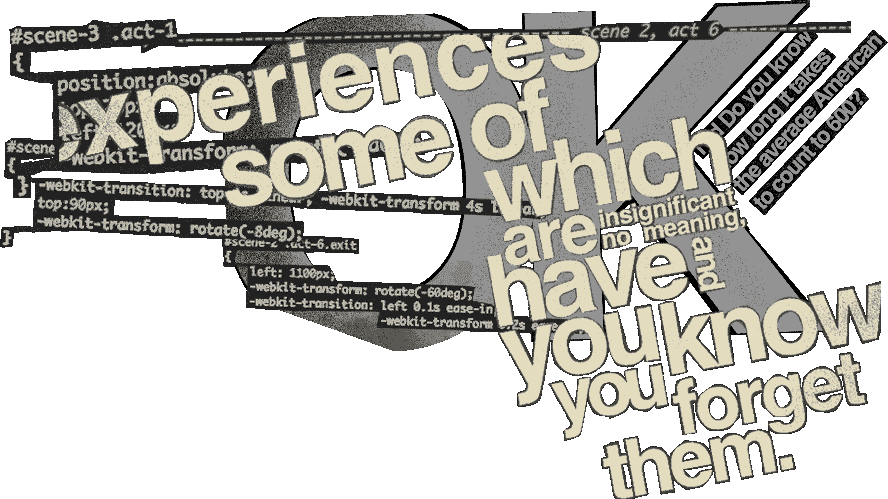
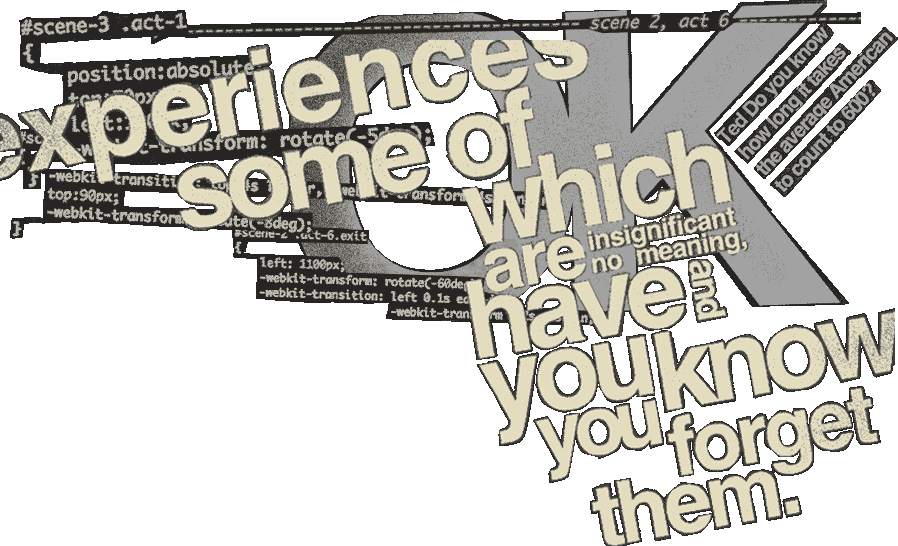
Work on responsive styles for projects and info

diff --git a/c/css/dist/core.css b/c/css/dist/core.css
@@ -1,1 +1,1 @@
-html,body,div,span,applet,object,iframe,h1,h2,h3,h4,h5,h6,p,blockquote,pre,a,abbr,acronym,address,big,cite,code,del,dfn,em,img,ins,kbd,q,s,samp,small,strike,strong,sub,sup,tt,var,b,u,i,center,dl,dt,dd,ol,ul,li,fieldset,form,label,legend,table,caption,tbody,tfoot,thead,tr,th,td,article,aside,canvas,details,embed,figure,figcaption,footer,header,hgroup,menu,nav,output,ruby,section,summary,time,mark,audio,video{margin:0;padding:0;border:0;font-size:100%;font:inherit;vertical-align:baseline}article,aside,details,figcaption,figure,footer,header,hgroup,menu,nav,section{display:block}body{line-height:1}ol,ul{list-style:none}blockquote,q{quotes:none}blockquote:before,blockquote:after,q:before,q:after{content:'';content:none}table{border-collapse:collapse;border-spacing:0}@font-face{font-family:"BebasNeueRegular";src:url("/fonts//BebasNeue-webfont.eot");src:url("/fonts//BebasNeue-webfont.eot?iefix") format("eot"), url("/fonts//BebasNeue-webfont.woff") format("woff"), url("/fonts//BebasNeue-webfont.ttf") format("truetype"), url("/fonts//BebasNeue-webfont.svg#webfontfvFLBU0N") format("svg")}::-moz-selection{background-color:#fce704;color:#201f1e;text-shadow:none}::selection{background-color:#fce704;color:#201f1e;-webkit-text-fill-color:#201f1e;text-shadow:none}html{background:#fefefe url(/images/html_bg_tile.gif) repeat 95%;padding:5px}body{background-color:#2b2a29;background-image:url(/images/body_bg_tile_03.png), url(/images/body_bg_tile_02.png), url(/images/body_bg_tile_01.png);background-repeat:repeat;background-position:95% -50%, 120%, 80%;border-width:6px;-moz-border-image:url(/images/body_border.png) 10 10 10 10 repeat repeat;-webkit-border-image:url(/images/body_border.png) 10 10 10 10 repeat repeat;border-image:url(/images/body_border.png) 10 10 10 10 repeat repeat;color:#f4efd3}header[role="banner"]{background-color:transparent;background-image:url(/images/banner_btm_border.png), url(/images/body_bg_tile_02.png), url(/images/banner_bg_tile.png);background-repeat:repeat-x, repeat, repeat;background-position:90% 105%, 70%, 90%;-moz-border-radius-topleft:6px;-webkit-border-top-left-radius:6px;-o-border-top-left-radius:6px;-ms-border-top-left-radius:6px;-khtml-border-top-left-radius:6px;border-top-left-radius:6px;-moz-border-radius-topright:6px;-webkit-border-top-right-radius:6px;-o-border-top-right-radius:6px;-ms-border-top-right-radius:6px;-khtml-border-top-right-radius:6px;border-top-right-radius:6px;color:#f0e9d7;font-family:helvetica, arial, sans-serif}header[role="banner"] > a{display:block;margin:0 auto;max-width:900px;opacity:0.9;padding:10px;text-align:center}header[role="banner"] > a:hover{opacity:1}header[role="banner"] hgroup{background:transparent url(/images/banner.png) no-repeat center top;-moz-background-size:100%;-webkit-background-size:100%;-o-background-size:100%;background-size:100%;padding-top:8.9%}header[role="banner"] h1,header[role="banner"] h2{font-size:1em;text-indent:-3000em}@media all and (max-width: 500px){header[role="banner"] > a{padding-top:4px}header[role="banner"] hgroup{background-image:url(/images/banner_narrow.png);padding-top:18%}}nav{margin:0 auto;max-width:900px;padding-right:12px}nav ul{background:#efe62f url(/images/header_text_bg_01.jpg) repeat left bottom;border-bottom:1px solid rgba(29, 29, 29, 0.5);display:inline-block;float:right;margin-bottom:-20px;padding:1px 8px 1px 8px;position:relative;top:-21px;-moz-transform:rotate(-0.4deg);-webkit-transform:rotate(-0.4deg);-o-transform:rotate(-0.4deg);-ms-transform:rotate(-0.4deg);transform:rotate(-0.4deg)}nav li{display:inline-block;margin-right:16px}nav li:last-child{margin-right:0}nav a{border-bottom:4px solid transparent;color:#2e2e2e;display:inline-block;font:2.3em/1em "atrament-web-1", "atrament-web-2", "BebasNeueRegular", helvetica, sans-serif;text-decoration:none;text-transform:uppercase}nav a:hover{border-bottom-color:#d45415;color:#000}#page-projects nav a[href*='projects'],#page-articles nav a[href*='articles'],#page-info nav a[href*='info']{border-bottom-color:#d45415;color:#000;cursor:default}#content{clear:both;font:1.3em/1em "chaparral-pro-1", "chaparral-pro-2", "Chaparral Pro", georgia, serif;-webkit-font-smoothing:antialiased}#content a{color:#fdec33;text-decoration:none}#content a:hover{background-color:rgba(255, 3, 104, 0.1);text-decoration:none;text-shadow:none}#content a.disabled{color:#757575;cursor:default}#content a.disabled:hover{background-color:transparent}h1{color:#fdec33;font:3.2em/1em "atrament-web-1", "atrament-web-2", "BebasNeueRegular", helvetica, sans-serif;text-transform:uppercase}footer[role="authorinfo"]{background:rgba(14, 14, 13, 0.1) url(/images/footer_top_border.png) repeat-x 90% top;-moz-border-radius-bottomleft:6px;-webkit-border-bottom-left-radius:6px;-o-border-bottom-left-radius:6px;-ms-border-bottom-left-radius:6px;-khtml-border-bottom-left-radius:6px;border-bottom-left-radius:6px;-moz-border-radius-bottomright:6px;-webkit-border-bottom-right-radius:6px;-o-border-bottom-right-radius:6px;-ms-border-bottom-right-radius:6px;-khtml-border-bottom-right-radius:6px;border-bottom-right-radius:6px;padding:15px 0;text-align:center}footer[role="authorinfo"] ul{margin:0 auto;max-width:900px}footer[role="authorinfo"] li{background:transparent url(/images/footer_item_divider.png) no-repeat right center;display:inline-block;padding-right:65px}footer[role="authorinfo"] li:last-child{background-image:none;padding-right:0}footer[role="authorinfo"] a{background:-moz-radial-gradient(center 45deg, circle closest-side, rgba(90, 169, 219, 0.2) 20px, transparent 21px);background:-webkit-gradient(radial, center center, 20, center center, 21, from(rgba(90, 169, 219, 0.2)), to(transparent));color:#f0f1f2;display:inline-block;font:2.1em/1em "atrament-web-1", "atrament-web-2", "BebasNeueRegular", helvetica, sans-serif;opacity:0.85;padding:6px 0px 9px 0px;text-align:center;text-decoration:none;text-transform:uppercase;text-shadow:rgba(0, 0, 0, 0.2) 0px 1px 1px}footer[role="authorinfo"] a:hover{opacity:1}footer[role="authorinfo"] a[href*='twitter']{background:-moz-radial-gradient(center 45deg, circle closest-side, rgba(90, 169, 219, 0.3) 20px, transparent 21px);background:-webkit-gradient(radial, center center, 20, center center, 21, from(rgba(90, 169, 219, 0.3)), to(transparent))}footer[role="authorinfo"] a[href*='dribbble']{background:-moz-radial-gradient(center 45deg, circle closest-side, rgba(246, 77, 192, 0.3) 20px, transparent 21px);background:-webkit-gradient(radial, center center, 20, center center, 21, from(rgba(246, 77, 192, 0.3)), to(transparent))}footer[role="authorinfo"] a[href*='rss']{background:-moz-radial-gradient(center 45deg, circle closest-side, rgba(255, 130, 39, 0.3) 20px, transparent 21px);background:-webkit-gradient(radial, center center, 20, center center, 21, from(rgba(255, 130, 39, 0.3)), to(transparent))}footer[role="authorinfo"] a[href*='readability']{background:-moz-radial-gradient(center 45deg, circle closest-side, rgba(184, 28, 40, 0.3) 20px, transparent 21px);background:-webkit-gradient(radial, center center, 20, center center, 21, from(rgba(184, 28, 40, 0.3)), to(transparent))}@media all and (max-width: 615px){footer[role="authorinfo"] a{font-size:1.7em}footer[role="authorinfo"] li{padding-right:40px}}#articles{clear:both;margin:0 auto;max-width:900px;overflow:hidden;padding:0 10px 15px 10px}#articles li{background-color:transparent;background-repeat:no-repeat;background-position:4% center;-moz-background-size:18%;-webkit-background-size:18%;-o-background-size:18%;background-size:18%;margin:10px auto}#articles a{display:block;padding:36px 0 40px 26%;-moz-transition-property:padding;-webkit-transition-property:padding;-o-transition-property:padding;transition-property:padding;-moz-transition-duration:0.2s;-webkit-transition-duration:0.2s;-o-transition-duration:0.2s;transition-duration:0.2s}#articles a:hover{background-color:transparent}#articles a:hover h2{color:#fdec33}#articles a:hover b{border-bottom-color:#f1f1f1}#articles time{background:transparent url(/images/horizontal_divider.png) repeat-x 20% center;color:#2d2d2d;display:block;font-size:0.75em;font-style:italic;font-weight:600}#articles time span{background-color:#eedf42;padding:0 4px}#articles h2{color:#f1f1f1;font:2.5em/1em "atrament-web-1", "atrament-web-2", "BebasNeueRegular", helvetica, sans-serif;margin-top:4px;text-transform:uppercase}#articles p{color:#f1f1f1;clear:right;font-size:0.95em;font-style:italic;line-height:1.3em}#articles b{border-bottom:1px solid rgba(253, 236, 51, 0.2);display:inline-block;font-size:0.75em;font-style:italic;margin-top:8px;float:right}#articles .i-less-than-three-ie6{background-image:url(/images/entryAssets/i-less-than-three-ie6/listingGraphic.png)}#articles .i-less-than-three-ie6 a:hover h2,#articles .i-less-than-three-ie6 a:hover b{color:#528eb7}#articles .you-did-what-with-what a:hover h2,#articles .you-did-what-with-what a:hover b{color:#b01a45}@media all and (max-width: 615px){#articles h2{font-size:1.8em}#articles li,#articles .i-less-than-three-ie6{background-image:none;width:95%}#articles a{padding:18px 0 24px 0}}#article{clear:both;margin:0 auto;max-width:900px;overflow:hidden;padding:0 10px 15px 10px}.hentry footer{background:transparent url(/images/yellow_border.png) no-repeat 110% top;clear:both;float:right;font-size:0.8em;padding-top:14px;width:70%}.hentry footer strong{background:transparent url(/images/article_thanks.png) no-repeat left top;display:inline-block;height:56px;position:relative;text-indent:-300em;top:-18px;left:-15px;width:239px}.hentry footer a{float:right;margin-right:14px}.entry-title{clear:both;font-size:3.8em;margin-bottom:20px;padding:14px 0 10px 30%}.entry-content{float:right;width:70%}.entry-content p{font-size:1.08em;line-height:1.25em;padding-bottom:1.4em;text-shadow:#080808 0px 0px 2px}.entry-content p:last-child{padding-bottom:0.8em}.entry-content p img{width:100%}.entry-content p strong{color:#fff;font-weight:700}.entry-content p.intro{color:#f1f1f1;font-size:1.22em;font-style:italic;padding-bottom:1.6em}.entry-meta{float:left;font-size:0.75em;margin-top:10px;width:30%}.entry-meta i{color:#9e9b8b;font-style:italic;font-weight:400;display:inline-block;width:75px}.entry-meta li{padding-bottom:3px;font-weight:600}.entry-meta #rdbWrapper{background:transparent url(/images/horizontal_divider.png) repeat-x left top;margin-top:4px;min-width:160px;padding-top:15px;width:65%}@media all and (max-width: 690px){.entry-meta{background-image:url(/images/horizontal_divider.png), url(/images/horizontal_divider.png);background-repeat:repeat-x;background-position:left top, left bottom;float:none;margin-bottom:20px;overflow:hidden;padding:15px 0 8px 0;width:95%}.entry-meta li{padding:0 0 0 15px}.entry-meta #rdbWrapper{background:none;margin-top:6px;min-width:auto;padding-top:0;width:auto}.entry-content{float:none;margin:0 auto;width:95%}.hentry footer{background:transparent url(/images/yellow_border.png) no-repeat 110% top;float:none;margin:0 auto;width:95%}}@media all and (max-width: 480px){.hentry footer strong{-moz-background-size:100%;-webkit-background-size:100%;-o-background-size:100%;background-size:100%;top:-8px;width:200px}}#article #i-less-than-three-ie6{background:transparent url(/images/entryAssets/i-less-than-three-ie6/ie6Logo.png) no-repeat 5% top;-moz-background-size:55%;-webkit-background-size:55%;-o-background-size:55%;background-size:55%;overflow:hidden}#article #i-less-than-three-ie6 .entry-title{color:#0490da;font:5em/1em "atrament-web-1", "atrament-web-2", "BebasNeueRegular", helvetica, sans-serif;font-weight:600;letter-spacing:0.05em;padding:40px 0 30px 0;text-align:center;text-shadow:#054f76 1px 1px 0px, #043f5e 2px 2px 0px, #03354f 3px 3px 0px, #03324a 4px 4px 0px, #032e45 5px 5px 0px}#article #i-less-than-three-ie6 .entry-title::-moz-selection{background-color:#d20d24;color:#fff;text-shadow:none}#article #i-less-than-three-ie6 .entry-title::selection{background-color:#d20d24;color:#fff;text-shadow:none;-webkit-text-fill-color:#fff}#article #i-less-than-three-ie6 .entry-title span{color:#f40b27;text-shadow:#860000 1px 1px 0px, #6d0000 2px 2px 0px, #5d0000 3px 3px 0px, #580000 4px 4px 0px, #530000 5px 5px 0px}#article #i-less-than-three-ie6 .entry-title span::-moz-selection{background-color:#d20d24;color:#fff;text-shadow:none}#article #i-less-than-three-ie6 .entry-title span::selection{background-color:#d20d24;color:#fff;text-shadow:none;-webkit-text-fill-color:#fff}#article #i-less-than-three-ie6 .dropCap{color:#0490da;display:inline-block;font-size:4.2em;font-style:normal;line-height:0.75em;text-align:left;text-shadow:#054f76 1px 1px 0px, #043f5e 2px 2px 0px, #03354f 3px 3px 0px, #03324a 4px 4px 0px, #032e45 5px 5px 0px;vertical-align:top;float:left;width:48px;padding-top:10px}#projects{margin:0 auto;max-width:900px;overflow:hidden;padding:40px 0;width:95%}#projects li{margin-bottom:30px;overflow:hidden}#projects h1{background:transparent url(/images/fuzzy_grain.png) repeat 90%;color:#000;display:inline-block;font-size:4em}#projects p{line-height:1.3;width:51%}#projects footer{background:transparent url(/images/horizontal_divider.png) repeat-x left top;line-height:1.3;margin-top:12px;padding-top:12px;text-align:right;width:50%}#projects footer a:first-child{font-size:1.12em;font-weight:600}#projects footer a:last-child{color:#8b8a88;font-size:0.9em;font-style:italic}#projects footer a:last-child mark{background-color:transparent;color:#fffde3}.alternate-layout p,#fullcourtshots p,.alternate-layout footer,#fullcourtshots footer{clear:right;float:right}#fullcourtshots{background:transparent url(/images/project_fcs_bg_full.png) no-repeat 40% 18%;-moz-background-size:94%;-webkit-background-size:94%;-o-background-size:94%;background-size:94%;padding:125px 0 80px 0}#fullcourtshots h1{background-color:#ea8111;clear:both;float:right;font-size:5.8em;line-height:0.8;margin-bottom:18px}#themanfromhollywood{background:transparent url(/images/project_mfh_bg_full.png) no-repeat center 5%;-moz-background-size:96%;-webkit-background-size:96%;-o-background-size:96%;background-size:96%;padding:125px 0 0px 0}#themanfromhollywood h1{background-image:none;clear:both;font-size:5.8em;line-height:0.85;margin-bottom:14px}#themanfromhollywood h1 span{background:#a8194b url(/images/fuzzy_grain.png) repeat 90%;display:inline-block}#themanfromhollywood h1 span:first-child{font-size:0.85em}#info{background:transparent url(/images/tylergaw_portrait.png) no-repeat 34% top;clear:both;margin:26px auto 0 auto;max-width:900px;overflow:hidden;padding:0 10px 15px 10px;-moz-transition-property:background-position;-webkit-transition-property:background-position;-o-transition-property:background-position;transition-property:background-position;-moz-transition-duration:0.2s;-webkit-transition-duration:0.2s;-o-transition-duration:0.2s;transition-duration:0.2s}#info h1{background-color:#ff0368;clear:both;color:#1d1d1d;display:inline-block;float:left;line-height:0.78em;margin-bottom:14px;overflow:hidden}#info .column-one{clear:left;float:left;width:35%}#info .column-two{clear:right;float:right;width:46%}#info .column-two p{clear:both;float:right;width:75%}#info .column-two h3{background-color:#f2e517;clear:both;color:#2b2a29;font-size:1.1em;font-weight:600;padding:6px 4px 7px 4px;text-align:right}#info .column-two h3 a{color:#e82573;text-decoration:none}#info .column-two h3 a:hover{color:black;background-color:transparent}#info p{line-height:1.3em;padding-bottom:16px;text-shadow:#080808 0px 0px 2px}@media all and (max-width: 810px){#info{background-position:35% 6px;-moz-background-size:78%;-webkit-background-size:78%;-o-background-size:78%;background-size:78%}}@media all and (max-width: 615px){#info{background-position:200% 20px}#info h1{font-size:2.5em}#info .column-one p{width:70%}#info .column-one,#info .column-two,#info .column-two p{clear:both;float:none;width:100%}#info .column-two h3{text-align:center}}@media all and (max-width: 480px){#info h1{font-size:2.1em;margin-bottom:8px}}
+html,body,div,span,applet,object,iframe,h1,h2,h3,h4,h5,h6,p,blockquote,pre,a,abbr,acronym,address,big,cite,code,del,dfn,em,img,ins,kbd,q,s,samp,small,strike,strong,sub,sup,tt,var,b,u,i,center,dl,dt,dd,ol,ul,li,fieldset,form,label,legend,table,caption,tbody,tfoot,thead,tr,th,td,article,aside,canvas,details,embed,figure,figcaption,footer,header,hgroup,menu,nav,output,ruby,section,summary,time,mark,audio,video{margin:0;padding:0;border:0;font-size:100%;font:inherit;vertical-align:baseline}article,aside,details,figcaption,figure,footer,header,hgroup,menu,nav,section{display:block}body{line-height:1}ol,ul{list-style:none}blockquote,q{quotes:none}blockquote:before,blockquote:after,q:before,q:after{content:'';content:none}table{border-collapse:collapse;border-spacing:0}@font-face{font-family:"BebasNeueRegular";src:url("/fonts//BebasNeue-webfont.eot");src:url("/fonts//BebasNeue-webfont.eot?iefix") format("eot"), url("/fonts//BebasNeue-webfont.woff") format("woff"), url("/fonts//BebasNeue-webfont.ttf") format("truetype"), url("/fonts//BebasNeue-webfont.svg#webfontfvFLBU0N") format("svg")}::-moz-selection{background-color:#fce704;color:#201f1e;text-shadow:none}::selection{background-color:#fce704;color:#201f1e;-webkit-text-fill-color:#201f1e;text-shadow:none}html{background:#fefefe url(/images/html_bg_tile.gif) repeat 95%;padding:5px}body{background-color:#2b2a29;background-image:url(/images/body_bg_tile_03.png), url(/images/body_bg_tile_02.png), url(/images/body_bg_tile_01.png);background-repeat:repeat;background-position:95% -50%, 120%, 80%;border-width:6px;-moz-border-image:url(/images/body_border.png) 10 10 10 10 repeat repeat;-webkit-border-image:url(/images/body_border.png) 10 10 10 10 repeat repeat;border-image:url(/images/body_border.png) 10 10 10 10 repeat repeat;color:#f4efd3}header[role="banner"]{background-color:transparent;background-image:url(/images/banner_btm_border.png), url(/images/body_bg_tile_02.png), url(/images/banner_bg_tile.png);background-repeat:repeat-x, repeat, repeat;background-position:90% 105%, 70%, 90%;-moz-border-radius-topleft:6px;-webkit-border-top-left-radius:6px;-o-border-top-left-radius:6px;-ms-border-top-left-radius:6px;-khtml-border-top-left-radius:6px;border-top-left-radius:6px;-moz-border-radius-topright:6px;-webkit-border-top-right-radius:6px;-o-border-top-right-radius:6px;-ms-border-top-right-radius:6px;-khtml-border-top-right-radius:6px;border-top-right-radius:6px;color:#f0e9d7;font-family:helvetica, arial, sans-serif}header[role="banner"] > a{display:block;margin:0 auto;max-width:900px;opacity:0.9;padding:10px;text-align:center}header[role="banner"] > a:hover{opacity:1}header[role="banner"] hgroup{background:transparent url(/images/banner.png) no-repeat center top;-moz-background-size:100%;-webkit-background-size:100%;-o-background-size:100%;background-size:100%;padding-top:8.9%}header[role="banner"] h1,header[role="banner"] h2{font-size:1em;text-indent:-3000em}@media all and (max-width: 500px){header[role="banner"] > a{padding-top:4px}header[role="banner"] hgroup{background-image:url(/images/banner_narrow.png);padding-top:18%}}nav{margin:0 auto;max-width:900px;padding-right:12px}nav ul{background:#efe62f url(/images/header_text_bg_01.jpg) repeat left bottom;border-bottom:1px solid rgba(29, 29, 29, 0.5);display:inline-block;float:right;margin-bottom:-20px;padding:1px 8px 1px 8px;position:relative;top:-21px;-moz-transform:rotate(-0.4deg);-webkit-transform:rotate(-0.4deg);-o-transform:rotate(-0.4deg);-ms-transform:rotate(-0.4deg);transform:rotate(-0.4deg)}nav li{display:inline-block;margin-right:16px}nav li:last-child{margin-right:0}nav a{border-bottom:4px solid transparent;color:#2e2e2e;display:inline-block;font:2.3em/1em "atrament-web-1", "atrament-web-2", "BebasNeueRegular", helvetica, sans-serif;text-decoration:none;text-transform:uppercase}nav a:hover{border-bottom-color:#d45415;color:#000}#page-projects nav a[href*='projects'],#page-articles nav a[href*='articles'],#page-info nav a[href*='info']{border-bottom-color:#d45415;color:#000;cursor:default}#content{clear:both;font:1.3em/1em "chaparral-pro-1", "chaparral-pro-2", "Chaparral Pro", georgia, serif;-webkit-font-smoothing:antialiased}#content a{color:#fdec33;text-decoration:none}#content a:hover{background-color:rgba(255, 3, 104, 0.1);text-decoration:none;text-shadow:none}#content a.disabled{color:#757575;cursor:default}#content a.disabled:hover{background-color:transparent}h1{color:#fdec33;font:3.2em/1em "atrament-web-1", "atrament-web-2", "BebasNeueRegular", helvetica, sans-serif;text-transform:uppercase}footer[role="authorinfo"]{background:rgba(14, 14, 13, 0.1) url(/images/footer_top_border.png) repeat-x 90% top;-moz-border-radius-bottomleft:6px;-webkit-border-bottom-left-radius:6px;-o-border-bottom-left-radius:6px;-ms-border-bottom-left-radius:6px;-khtml-border-bottom-left-radius:6px;border-bottom-left-radius:6px;-moz-border-radius-bottomright:6px;-webkit-border-bottom-right-radius:6px;-o-border-bottom-right-radius:6px;-ms-border-bottom-right-radius:6px;-khtml-border-bottom-right-radius:6px;border-bottom-right-radius:6px;padding:15px 0;text-align:center}footer[role="authorinfo"] ul{margin:0 auto;max-width:900px}footer[role="authorinfo"] li{background:transparent url(/images/footer_item_divider.png) no-repeat right center;display:inline-block;padding-right:65px}footer[role="authorinfo"] li:last-child{background-image:none;padding-right:0}footer[role="authorinfo"] a{background:-moz-radial-gradient(center 45deg, circle closest-side, rgba(90, 169, 219, 0.2) 20px, transparent 21px);background:-webkit-gradient(radial, center center, 20, center center, 21, from(rgba(90, 169, 219, 0.2)), to(transparent));color:#f0f1f2;display:inline-block;font:2.1em/1em "atrament-web-1", "atrament-web-2", "BebasNeueRegular", helvetica, sans-serif;opacity:0.85;padding:6px 0px 9px 0px;text-align:center;text-decoration:none;text-transform:uppercase;text-shadow:rgba(0, 0, 0, 0.2) 0px 1px 1px}footer[role="authorinfo"] a:hover{opacity:1}footer[role="authorinfo"] a[href*='twitter']{background:-moz-radial-gradient(center 45deg, circle closest-side, rgba(90, 169, 219, 0.3) 20px, transparent 21px);background:-webkit-gradient(radial, center center, 20, center center, 21, from(rgba(90, 169, 219, 0.3)), to(transparent))}footer[role="authorinfo"] a[href*='dribbble']{background:-moz-radial-gradient(center 45deg, circle closest-side, rgba(246, 77, 192, 0.3) 20px, transparent 21px);background:-webkit-gradient(radial, center center, 20, center center, 21, from(rgba(246, 77, 192, 0.3)), to(transparent))}footer[role="authorinfo"] a[href*='rss']{background:-moz-radial-gradient(center 45deg, circle closest-side, rgba(255, 130, 39, 0.3) 20px, transparent 21px);background:-webkit-gradient(radial, center center, 20, center center, 21, from(rgba(255, 130, 39, 0.3)), to(transparent))}footer[role="authorinfo"] a[href*='readability']{background:-moz-radial-gradient(center 45deg, circle closest-side, rgba(184, 28, 40, 0.3) 20px, transparent 21px);background:-webkit-gradient(radial, center center, 20, center center, 21, from(rgba(184, 28, 40, 0.3)), to(transparent))}@media all and (max-width: 615px){footer[role="authorinfo"] a{font-size:1.7em}footer[role="authorinfo"] li{padding-right:40px}}#articles{clear:both;margin:0 auto;max-width:900px;overflow:hidden;padding:0 10px 15px 10px}#articles li{background-color:transparent;background-repeat:no-repeat;background-position:4% center;-moz-background-size:18%;-webkit-background-size:18%;-o-background-size:18%;background-size:18%;margin:10px auto}#articles a{display:block;padding:36px 0 40px 26%;-moz-transition-property:padding;-webkit-transition-property:padding;-o-transition-property:padding;transition-property:padding;-moz-transition-duration:0.2s;-webkit-transition-duration:0.2s;-o-transition-duration:0.2s;transition-duration:0.2s}#articles a:hover{background-color:transparent}#articles a:hover h2{color:#fdec33}#articles a:hover b{border-bottom-color:#f1f1f1}#articles time{background:transparent url(/images/horizontal_divider.png) repeat-x 20% center;color:#2d2d2d;display:block;font-size:0.75em;font-style:italic;font-weight:600}#articles time span{background-color:#eedf42;padding:0 4px}#articles h2{color:#f1f1f1;font:2.5em/1em "atrament-web-1", "atrament-web-2", "BebasNeueRegular", helvetica, sans-serif;margin-top:4px;text-transform:uppercase}#articles p{color:#f1f1f1;clear:right;font-size:0.95em;font-style:italic;line-height:1.3em}#articles b{border-bottom:1px solid rgba(253, 236, 51, 0.2);display:inline-block;font-size:0.75em;font-style:italic;margin-top:8px;float:right}#articles .i-less-than-three-ie6{background-image:url(/images/entryAssets/i-less-than-three-ie6/listingGraphic.png)}#articles .i-less-than-three-ie6 a:hover h2,#articles .i-less-than-three-ie6 a:hover b{color:#528eb7}#articles .you-did-what-with-what a:hover h2,#articles .you-did-what-with-what a:hover b{color:#b01a45}@media all and (max-width: 615px){#articles h2{font-size:1.8em}#articles li,#articles .i-less-than-three-ie6{background-image:none;width:95%}#articles a{padding:18px 0 24px 0}}#article{clear:both;margin:0 auto;max-width:900px;overflow:hidden;padding:0 10px 15px 10px}.hentry footer{background:transparent url(/images/yellow_border.png) no-repeat 110% top;clear:both;float:right;font-size:0.8em;padding-top:14px;width:70%}.hentry footer strong{background:transparent url(/images/article_thanks.png) no-repeat left top;display:inline-block;height:56px;position:relative;text-indent:-300em;top:-18px;left:-15px;width:239px}.hentry footer a{float:right;margin-right:14px}.entry-title{clear:both;font-size:3.8em;margin-bottom:20px;padding:14px 0 10px 30%}.entry-content{float:right;width:70%}.entry-content p{font-size:1.08em;line-height:1.25em;padding-bottom:1.4em;text-shadow:#080808 0px 0px 2px}.entry-content p:last-child{padding-bottom:0.8em}.entry-content p img{width:100%}.entry-content p strong{color:#fff;font-weight:700}.entry-content p.intro{color:#f1f1f1;font-size:1.22em;font-style:italic;padding-bottom:1.6em}.entry-meta{float:left;font-size:0.75em;margin-top:10px;width:30%}.entry-meta i{color:#9e9b8b;font-style:italic;font-weight:400;display:inline-block;width:75px}.entry-meta li{padding-bottom:3px;font-weight:600}.entry-meta #rdbWrapper{background:transparent url(/images/horizontal_divider.png) repeat-x left top;margin-top:4px;min-width:160px;padding-top:15px;width:65%}@media all and (max-width: 690px){.entry-meta{background-image:url(/images/horizontal_divider.png), url(/images/horizontal_divider.png);background-repeat:repeat-x;background-position:left top, left bottom;float:none;margin-bottom:20px;overflow:hidden;padding:15px 0 8px 0;width:95%}.entry-meta li{padding:0 0 0 15px}.entry-meta #rdbWrapper{background:none;margin-top:6px;min-width:auto;padding-top:0;width:auto}.entry-content{float:none;margin:0 auto;width:95%}.hentry footer{background:transparent url(/images/yellow_border.png) no-repeat 110% top;float:none;margin:0 auto;width:95%}}@media all and (max-width: 480px){.hentry footer strong{-moz-background-size:100%;-webkit-background-size:100%;-o-background-size:100%;background-size:100%;top:-8px;width:200px}}#article #i-less-than-three-ie6{background:transparent url(/images/entryAssets/i-less-than-three-ie6/ie6Logo.png) no-repeat 5% top;-moz-background-size:55%;-webkit-background-size:55%;-o-background-size:55%;background-size:55%;overflow:hidden}#article #i-less-than-three-ie6 .entry-title{color:#0490da;font:5em/1em "atrament-web-1", "atrament-web-2", "BebasNeueRegular", helvetica, sans-serif;font-weight:600;letter-spacing:0.05em;padding:40px 0 30px 0;text-align:center;text-shadow:#054f76 1px 1px 0px, #043f5e 2px 2px 0px, #03354f 3px 3px 0px, #03324a 4px 4px 0px, #032e45 5px 5px 0px}#article #i-less-than-three-ie6 .entry-title::-moz-selection{background-color:#d20d24;color:#fff;text-shadow:none}#article #i-less-than-three-ie6 .entry-title::selection{background-color:#d20d24;color:#fff;text-shadow:none;-webkit-text-fill-color:#fff}#article #i-less-than-three-ie6 .entry-title span{color:#f40b27;text-shadow:#860000 1px 1px 0px, #6d0000 2px 2px 0px, #5d0000 3px 3px 0px, #580000 4px 4px 0px, #530000 5px 5px 0px}#article #i-less-than-three-ie6 .entry-title span::-moz-selection{background-color:#d20d24;color:#fff;text-shadow:none}#article #i-less-than-three-ie6 .entry-title span::selection{background-color:#d20d24;color:#fff;text-shadow:none;-webkit-text-fill-color:#fff}#article #i-less-than-three-ie6 .dropCap{color:#0490da;display:inline-block;font-size:4.2em;font-style:normal;line-height:0.75em;text-align:left;text-shadow:#054f76 1px 1px 0px, #043f5e 2px 2px 0px, #03354f 3px 3px 0px, #03324a 4px 4px 0px, #032e45 5px 5px 0px;vertical-align:top;float:left;width:48px;padding-top:10px}#projects{margin:0 auto;max-width:900px;overflow:hidden;padding:20px 0;width:95%}#projects li{margin:0 auto 40px auto;overflow:hidden;width:100%}#projects h1{background:transparent url(/images/fuzzy_grain.png) repeat 90%;color:#1d1d1d;display:inline-block;font-size:4em}#projects p{line-height:1.3;-moz-transition-duration:0.2s;-webkit-transition-duration:0.2s;-o-transition-duration:0.2s;transition-duration:0.2s;-moz-transition-property:width;-webkit-transition-property:width;-o-transition-property:width;transition-property:width;width:51%}#projects footer{background:transparent url(/images/horizontal_divider.png) repeat-x left top;line-height:1.3;margin-top:12px;padding-top:12px;text-align:right;width:50%}#projects footer a:first-child{font-size:1.12em;font-weight:600}#projects footer a:last-child{color:#8b8a88;font-size:0.9em;font-style:italic}#projects footer a:last-child mark{background-color:transparent;color:#fffde3}@media all and (max-width: 600px){#projects li{width:95%}#projects p{float:none;width:100%}#projects footer{width:100%}}.alternate-layout p,#fullcourtshots p,.alternate-layout footer,#fullcourtshots footer{clear:right;float:right}#fullcourtshots{background:transparent url(/images/project_fcs_bg_full.png) no-repeat 39% 30%;-moz-background-size:94%;-webkit-background-size:94%;-o-background-size:94%;background-size:94%;padding:15% 0 8% 0;-moz-transition-duration:0.2s;-webkit-transition-duration:0.2s;-o-transition-duration:0.2s;transition-duration:0.2s;-moz-transition-property:background-position, padding;-webkit-transition-property:background-position, padding;-o-transition-property:background-position, padding;transition-property:background-position, padding}#fullcourtshots h1{background-color:#ea8111;clear:both;float:right;font-size:5.8em;line-height:0.8;margin-bottom:18px;text-align:right;-moz-transition-duration:0.2s;-webkit-transition-duration:0.2s;-o-transition-duration:0.2s;transition-duration:0.2s;-moz-transition-property:font-size;-webkit-transition-property:font-size;-o-transition-property:font-size;transition-property:font-size}@media all and (max-width: 750px){#fullcourtshots{background-position:39% 14%;padding:15% 0 0 0}#fullcourtshots h1{font-size:4.6em;margin-bottom:8px}}@media all and (max-width: 600px){#fullcourtshots{background-image:none;padding:0}#fullcourtshots h1{font-size:2.6em;text-align:left;float:none}}#themanfromhollywood{background:transparent url(/images/project_mfh_bg_full.png) no-repeat right 45%;-moz-background-size:98%;-webkit-background-size:98%;-o-background-size:98%;background-size:98%;padding:100px 0 25px 0}#themanfromhollywood h1{background-image:none;clear:both;font-size:5.8em;line-height:0.85;margin-bottom:14px}#themanfromhollywood h1 span{background:#a8194b url(/images/fuzzy_grain.png) repeat 90%;display:inline-block}#themanfromhollywood h1 span:first-child{font-size:0.85em}#info{background:transparent url(/images/tylergaw_portrait.png) no-repeat 34% top;clear:both;margin:26px auto 0 auto;max-width:900px;overflow:hidden;padding:0 10px 15px 10px;-moz-transition-property:background-position;-webkit-transition-property:background-position;-o-transition-property:background-position;transition-property:background-position;-moz-transition-duration:0.2s;-webkit-transition-duration:0.2s;-o-transition-duration:0.2s;transition-duration:0.2s}#info h1{background:#ff0368 url(/images/fuzzy_grain.png) repeat 90%;clear:both;color:#1d1d1d;display:inline-block;float:left;font-size:3.5em;line-height:0.78em;margin-bottom:14px;overflow:hidden}#info .column-one{clear:left;float:left;width:35%}#info .column-two{clear:right;float:right;width:46%}#info .column-two p{clear:both;float:right;width:75%}#info .column-two h3{background-color:#f2e517;clear:both;color:#2b2a29;font-size:1.1em;font-weight:600;padding:6px 4px 7px 4px;text-align:right}#info .column-two h3 a{color:#e82573;text-decoration:none}#info .column-two h3 a:hover{color:black;background-color:transparent}#info p{line-height:1.3em;padding-bottom:16px;text-shadow:#080808 0px 0px 2px}@media all and (max-width: 810px){#info{background-position:35% 6px;-moz-background-size:78%;-webkit-background-size:78%;-o-background-size:78%;background-size:78%}}@media all and (max-width: 615px){#info{background-position:200% 20px}#info h1{font-size:2.5em}#info .column-one p{width:70%}#info .column-one,#info .column-two,#info .column-two p{clear:both;float:none;width:100%}#info .column-two h3{text-align:center}}@media all and (max-width: 480px){#info h1{font-size:2.1em;margin-bottom:8px}}

diff --git a/c/css/src/_projects.scss b/c/css/src/_projects.scss
@@ -3,19 +3,23 @@
 	margin: 0 auto;
 	max-width: 900px;
 	overflow: hidden;
-	padding: 40px 0;
+	padding: 20px 0;
 	width: 95%;
 	
 	li
 	{
-		margin-bottom: 30px;
+		//border-top: 1px solid red;
+		//border-bottom: 1px solid red;
+		
+		margin: 0 auto 40px auto;
 		overflow: hidden;
+		width: 100%;		
 	}
 	
 	h1
 	{
 		background: transparent url(/images/fuzzy_grain.png) repeat 90%;
-		color: #000;
+		color: #1d1d1d;
 		display: inline-block;
 		font-size: 4em;
 	}
@@ -23,6 +27,8 @@
 	p
 	{
 		line-height: 1.3;
+		@include transition-duration(0.2s);
+		@include transition-property(width);
 		width: 51%;
 	}
 	
@@ -54,6 +60,25 @@
 			}
 		}
 	}
+	
+	@media all and (max-width: 600px)
+	{
+		li
+		{
+			width: 95%;
+		}
+		
+		p
+		{
+			float: none;
+			width: 100%;
+		}
+		
+		footer
+		{
+			width: 100%;
+		}
+	}
 }
 
 .alternate-layout
@@ -68,9 +93,11 @@
 #fullcourtshots
 {
 	@extend .alternate-layout;
-	background: transparent url(/images/project_fcs_bg_full.png) no-repeat 40% 18%;
+	background: transparent url(/images/project_fcs_bg_full.png) no-repeat 39% 30%;
 	@include background-size('94%');
-	padding: 125px 0 80px 0;
+	padding: 15% 0 8% 0;
+	@include transition-duration(0.2s);
+	@include transition-property('background-position, padding');
 	
 	h1
 	{
@@ -80,14 +107,42 @@
 		font-size: 5.8em;
 		line-height: 0.8;
 		margin-bottom: 18px;
+		text-align: right;
+		@include transition-duration(0.2s);
+		@include transition-property('font-size');
+	}
+	
+	@media all and (max-width: 750px)
+	{
+		background-position: 39% 14%;
+		padding: 15% 0 0 0;
+		
+		h1
+		{
+			font-size: 4.6em;
+			margin-bottom: 8px;
+		}
+	}
+	
+	@media all and (max-width: 600px)
+	{
+		background-image: none;
+		padding: 0;
+		
+		h1
+		{
+			font-size: 2.6em;
+			text-align: left;
+			float: none;
+		}
 	}
 }
 
 #themanfromhollywood
 {
-	background: transparent url(/images/project_mfh_bg_full.png) no-repeat center 5%;
-	@include background-size('96%');
-	padding: 125px 0 0px 0;
+	background: transparent url(/images/project_mfh_bg_full.png) no-repeat right 45%;
+	@include background-size('98%');
+	padding: 100px 0 25px 0;
 	
 	h1
 	{

diff --git a/c/css/src/_info.scss b/c/css/src/_info.scss
@@ -11,11 +11,12 @@
 	
 	h1
 	{
-		background-color: #ff0368;
+		background: #ff0368 url(/images/fuzzy_grain.png) repeat 90%;
 		clear: both;
 		color: #1d1d1d;
 		display: inline-block;
 		float: left;
+		font-size: 3.5em;
 		line-height: 0.78em;
 		margin-bottom: 14px;
 		overflow: hidden;
